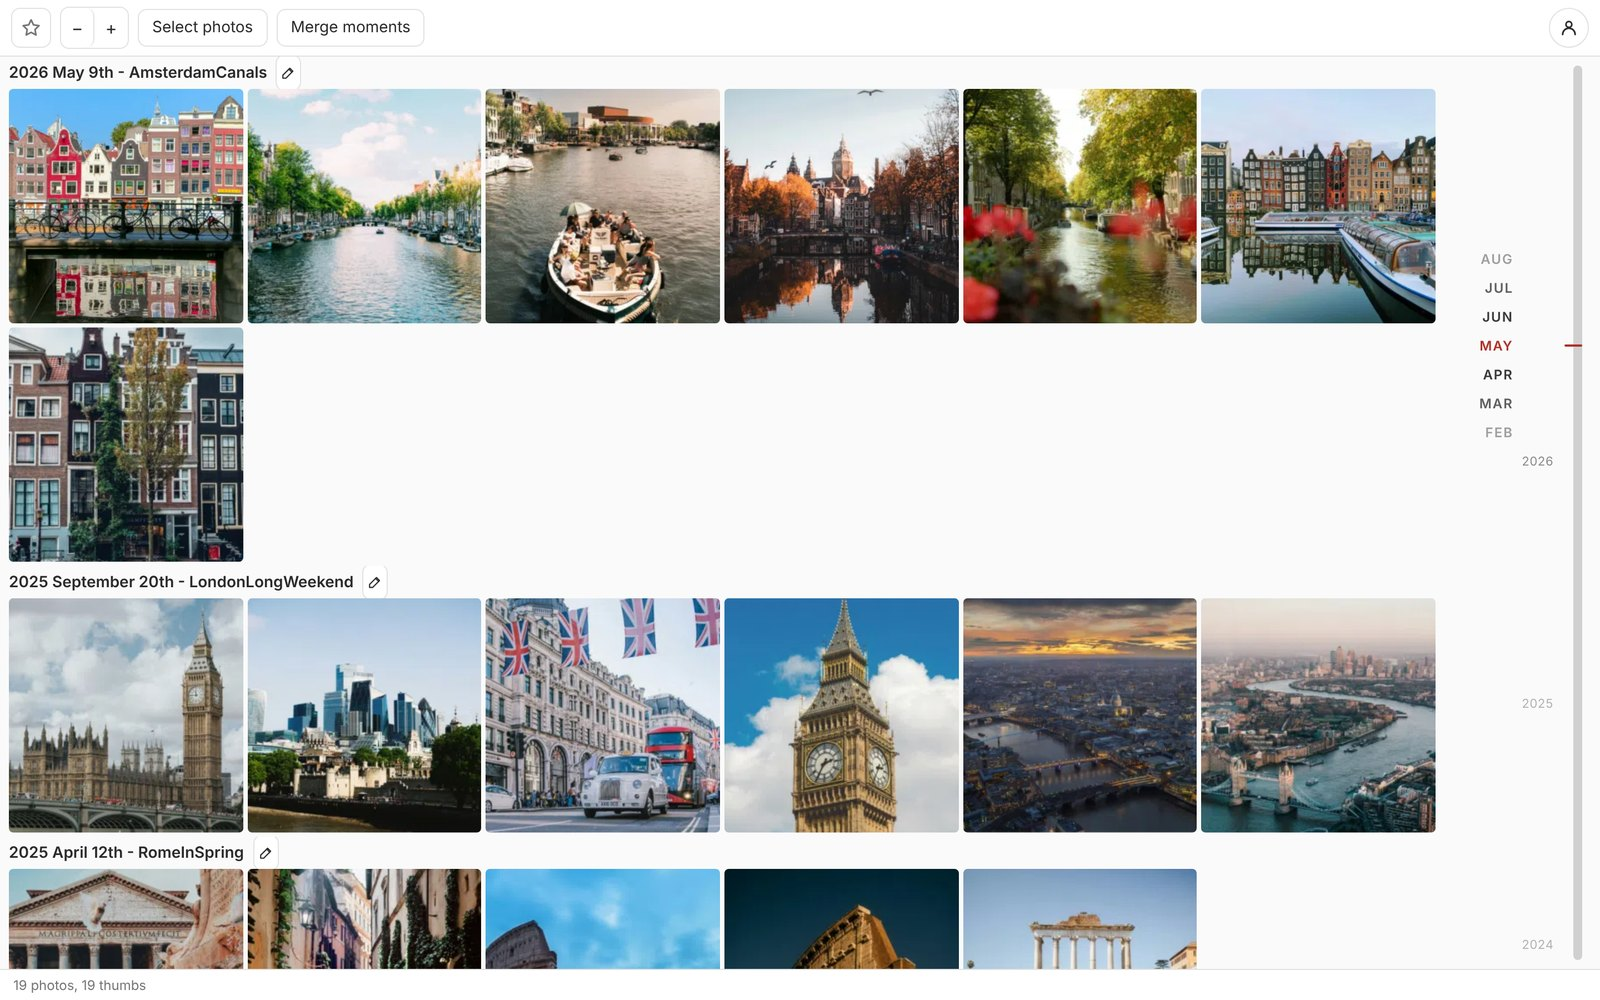
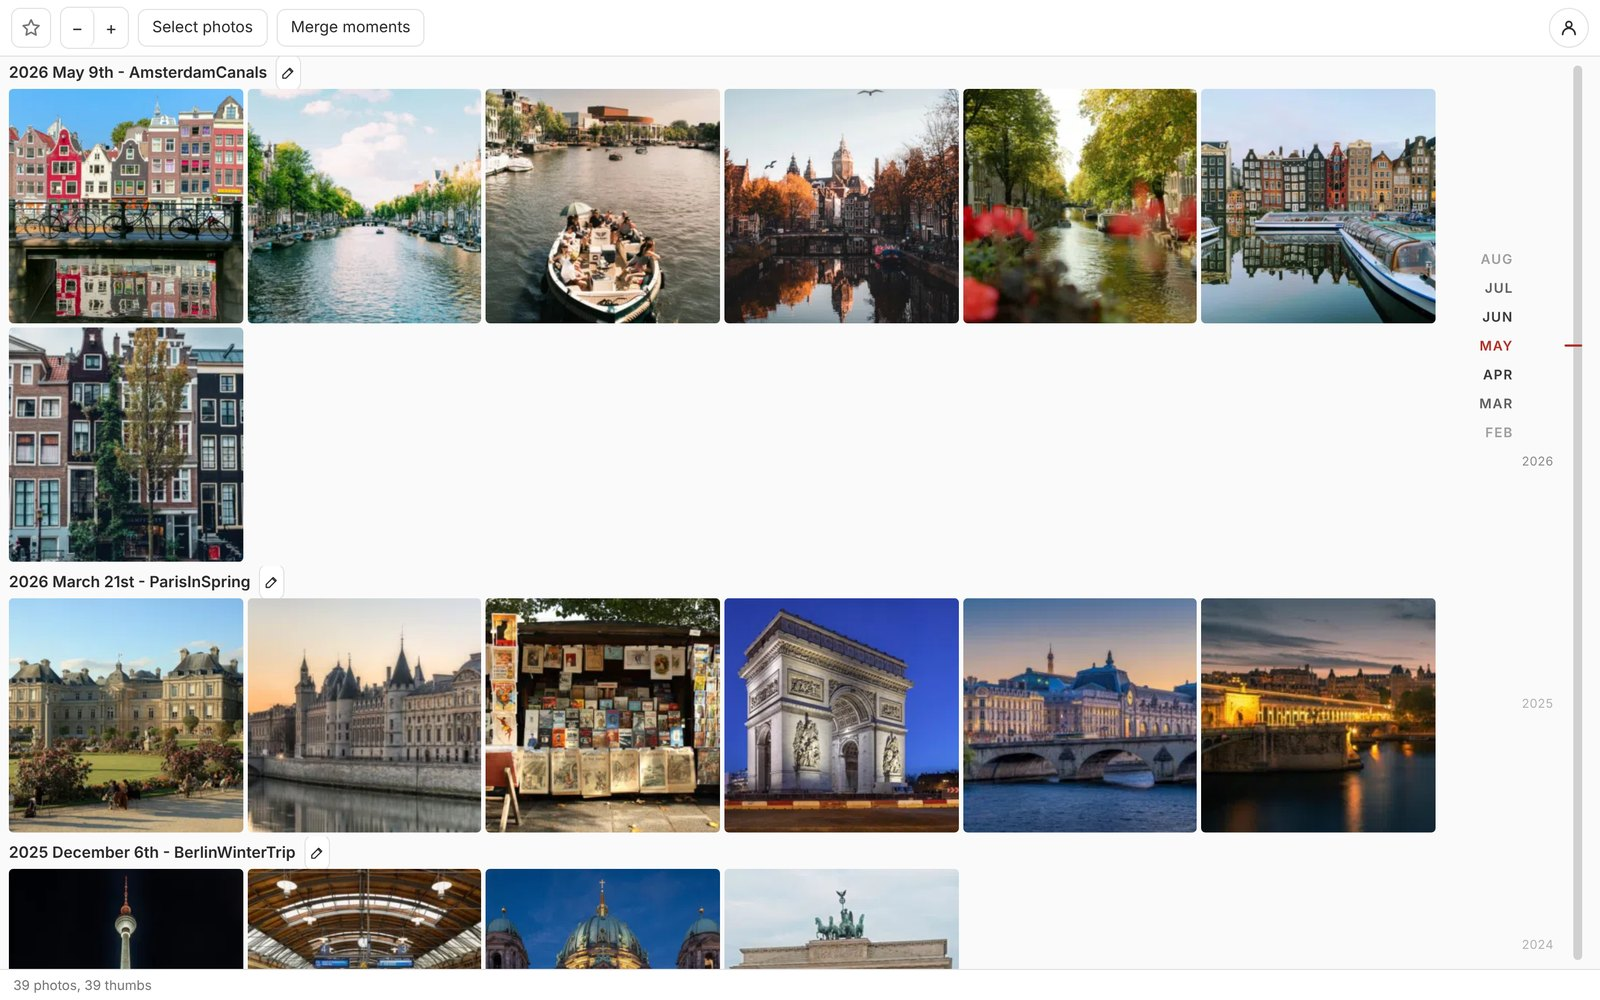
README: 39-photo demo screenshots, new hero, image credits
Claude-Session: https://claude.ai/code/session_0123F2NRQWg9sRNUqxm3J8r4

Changed region(s): [[0.0, 0.558, 0.9062, 0.992]]

diff --git a/docs/images/CREDITS.md b/docs/images/CREDITS.md
@@ -1,0 +1,34 @@
+# Image credits
+
+The screenshots in this folder show demo photos only. None are from a real library.
+
+## Unsplash
+
+Amsterdam, London, Rome and Cinque Terre: 19 photos from [Unsplash](https://unsplash.com), used under the [Unsplash License](https://unsplash.com/license).
+
+## Wikimedia Commons
+
+Paris, Berlin, Prague and Lisbon: photos from [Wikimedia Commons](https://commons.wikimedia.org), shown as small thumbnails and resized.
+
+| Photo | Author | Licence |
+|---|---|---|
+| [Bir-Hakeim bridge, Paris 24 June 2021.jpg](https://commons.wikimedia.org/wiki/File:Bir-Hakeim_bridge,_Paris_24_June_2021.jpg) | Pierre Blaché from Paris, France | CC0 |
+| [Pont Royal and Musée d'Orsay, Paris 10 July 2020.jpg](https://commons.wikimedia.org/wiki/File:Pont_Royal_and_Mus%C3%A9e_d%27Orsay,_Paris_10_July_2020.jpg) | Pierre Blaché from Paris, France | CC0 |
+| [Arc de Triomphe de l'Étoile at night vertical fix.jpg](https://commons.wikimedia.org/wiki/File:Arc_de_Triomphe_de_l%27%C3%89toile_at_night_vertical_fix.jpg) | Wilfredor | CC0 |
+| [Paris 75005 Quai de Montebello Bouquinistes 20071014.jpg](https://commons.wikimedia.org/wiki/File:Paris_75005_Quai_de_Montebello_Bouquinistes_20071014.jpg) | Benh LIEU SONG | CC BY-SA 3.0 |
+| [Quai de l'Horloge, Paris, Île-de-France 140320.jpg](https://commons.wikimedia.org/wiki/File:Quai_de_l%27Horloge,_Paris,_%C3%8Ele-de-France_140320.jpg) | DXR | CC BY-SA 3.0 |
+| [Palais Luxembourg Sunset Edit.JPG](https://commons.wikimedia.org/wiki/File:Palais_Luxembourg_Sunset_Edit.JPG) | Benh LIEU SONG, crane cloned out by Sanchezn | CC BY-SA 3.0 |
+| [Brandenburger Tor morgens.jpg](https://commons.wikimedia.org/wiki/File:Brandenburger_Tor_morgens.jpg) | Thomas Wolf, www.foto-tw.de | CC BY-SA 3.0 |
+| [Berliner-Dom-Blaue-Stunde-2026.jpg](https://commons.wikimedia.org/wiki/File:Berliner-Dom-Blaue-Stunde-2026.jpg) | Tuxyso | CC BY-SA 4.0 |
+| [Hackescher Markt November 2013.jpg](https://commons.wikimedia.org/wiki/File:Hackescher_Markt_November_2013.jpg) | Arild Vågen | CC BY-SA 3.0 |
+| [Fernsehturm, Berlín, Alemania, 2016-04-22, DD 40-42 HDR.jpg](https://commons.wikimedia.org/wiki/File:Fernsehturm,_Berl%C3%ADn,_Alemania,_2016-04-22,_DD_40-42_HDR.jpg) | Diego Delso | CC BY-SA 4.0 |
+| [North view of Charles Bridge from Mánesův most, Prague 20160808 1.jpg](https://commons.wikimedia.org/wiki/File:North_view_of_Charles_Bridge_from_M%C3%A1nes%C5%AFv_most,_Prague_20160808_1.jpg) | DXR | CC BY-SA 4.0 |
+| [Prague skyline at dawn.jpg](https://commons.wikimedia.org/wiki/File:Prague_skyline_at_dawn.jpg) | Petar Milošević | CC BY-SA 4.0 |
+| [Czech-2013-Prague-Astronomical clock face.jpg](https://commons.wikimedia.org/wiki/File:Czech-2013-Prague-Astronomical_clock_face.jpg) | Godot13 | CC BY-SA 4.0 |
+| [Petřín tower 05 2018.jpg](https://commons.wikimedia.org/wiki/File:Pet%C5%99%C3%ADn_tower_05_2018.jpg) | Suisant7 | CC BY-SA 4.0 |
+| [Iglesia de Nuestra Señora ante Týn, Praga, República Checa, 2022-07-02, DD 259-261 HDR.jpg](https://commons.wikimedia.org/wiki/File:Iglesia_de_Nuestra_Se%C3%B1ora_ante_T%C3%BDn,_Praga,_Rep%C3%BAblica_Checa,_2022-07-02,_DD_259-261_HDR.jpg) | Diego Delso | CC BY-SA 4.0 |
+| [Vltava river in Prague.jpg](https://commons.wikimedia.org/wiki/File:Vltava_river_in_Prague.jpg) | Dmitry A. Mottl | CC BY-SA 4.0 |
+| [Arco Triunfal da Rua Augusta, Plaza del Comercio, Lisboa, Portugal, 2012-05-12, DD 02.JPG](https://commons.wikimedia.org/wiki/File:Arco_Triunfal_da_Rua_Augusta,_Plaza_del_Comercio,_Lisboa,_Portugal,_2012-05-12,_DD_02.JPG) | Diego Delso | CC BY-SA 3.0 |
+| [Torre Belém April 2009-4a.jpg](https://commons.wikimedia.org/wiki/File:Torre_Bel%C3%A9m_April_2009-4a.jpg) | Alvesgaspar | CC BY-SA 3.0 |
+| [Lissabon - Praca do Comercio - Arcades.jpg](https://commons.wikimedia.org/wiki/File:Lissabon_-_Praca_do_Comercio_-_Arcades.jpg) | Ingo Mehling | CC BY-SA 4.0 |
+| [Old Arsenal da Marinha and Doca da Caldeirinha, Cais do Sodré, Lisbon, Portugal julesvernex2.jpg](https://commons.wikimedia.org/wiki/File:Old_Arsenal_da_Marinha_and_Doca_da_Caldeirinha,_Cais_do_Sodr%C3%A9,_Lisbon,_Portugal_julesvernex2.jpg) | Jules Verne Times Two | CC BY-SA 4.0 |

diff --git a/README.md b/README.md
@@ -49,7 +49,7 @@ library and there is no shared timeline or admin account.
   </tr>
 </table>
 
-<sub>Screenshots use demo photos from Unsplash.</sub>
+<sub>Screenshots use demo photos from Unsplash and Wikimedia Commons; see [credits](docs/images/CREDITS.md).</sub>
 
 ### By the numbers
 
